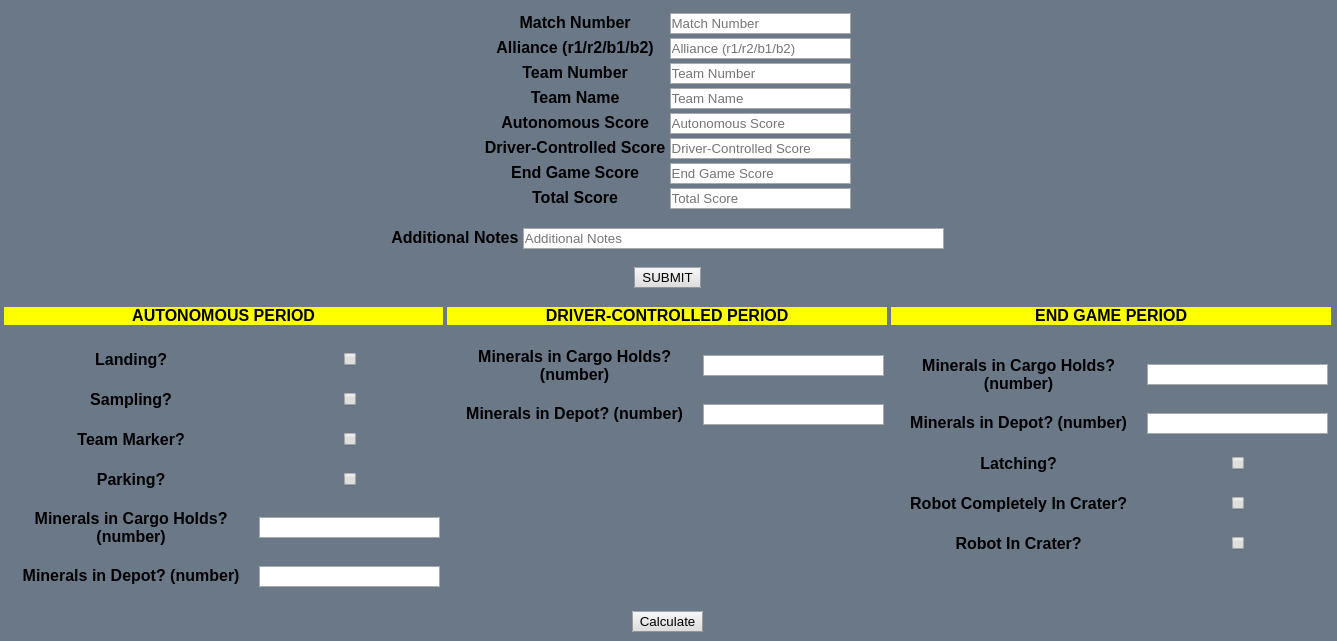
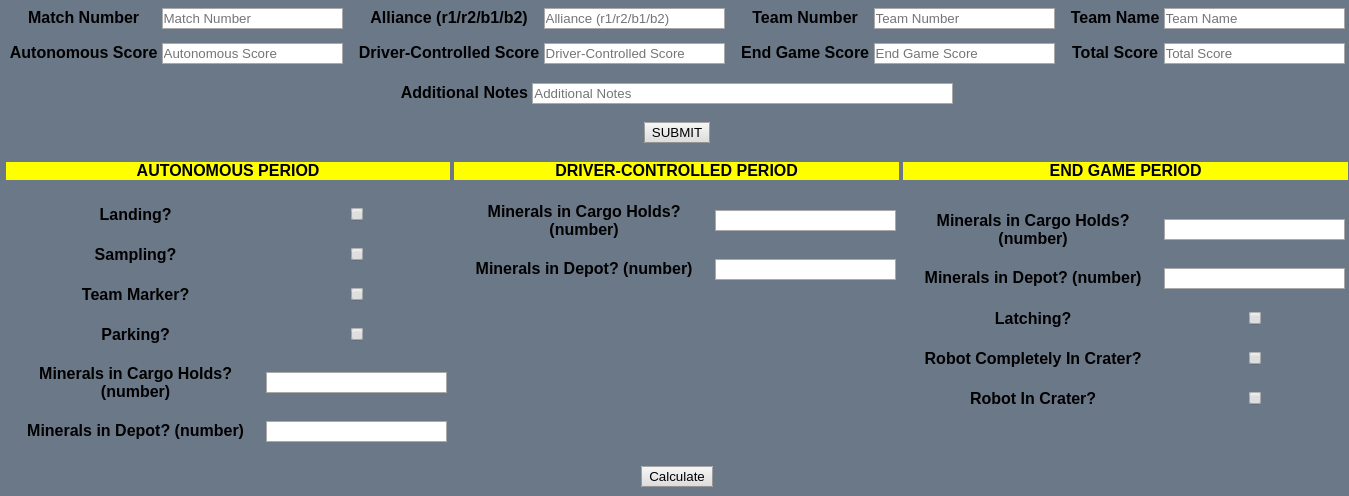
update

diff --git a/public/scouting/scorecalc.html b/public/scouting/scorecalc.html
@@ -17,32 +17,26 @@
 					<tr>
 						<th><b>Match Number</b></th>
 						<th><input type="text" name="matchnumber" placeholder="Match Number" required=""></th>
-					</tr>
-					<tr>
+						<th></th><th></th><th></th>
 						<th><b>Alliance (r1/r2/b1/b2)</b></th>
 						<th><input type="text" name="alliance" placeholder="Alliance (r1/r2/b1/b2)" required=""></th>
-					</tr>
-					<tr>
+						<th></th><th></th><th></th>
 						<th><b>Team Number</b></th>
 						<th><input type="text" name="teamnumber" placeholder="Team Number" required=""></th>
-					</tr>
-					<tr>
+						<th></th><th></th><th></th>
 						<th><b>Team Name</b></th>
 						<th><input type="text" name="teamname" placeholder="Team Name" required=""></th>
-					</tr>
+					</tr><tr></tr><tr></tr><tr></tr><tr></tr><tr></tr>
 					<tr>
 						<th><b>Autonomous Score</b></th>
 						<th><input type="text" id="autoscore" name="autoscore" placeholder="Autonomous Score" required=""></th>
-					</tr>
-					<tr>
+						<th></th><th></th><th></th>
 						<th><b>Driver-Controlled Score</b></th>
 						<th><input type="text" id="driverscore" name="driverscore" placeholder="Driver-Controlled Score" required=""></th>
-					</tr>
-					<tr>
+						<th></th><th></th><th></th>
 						<th><b>End Game Score</b></th>
 						<th><input type="text" id="endscore" name="endscore" placeholder="End Game Score" required=""></th>
-					</tr>
-					<tr>
+						<th></th><th></th><th></th>
 						<th><b>Total Score</b></th>
 						<th><input type="text" id="total" name="totalscore" placeholder="Total Score" required=""></th>
 					</tr>
